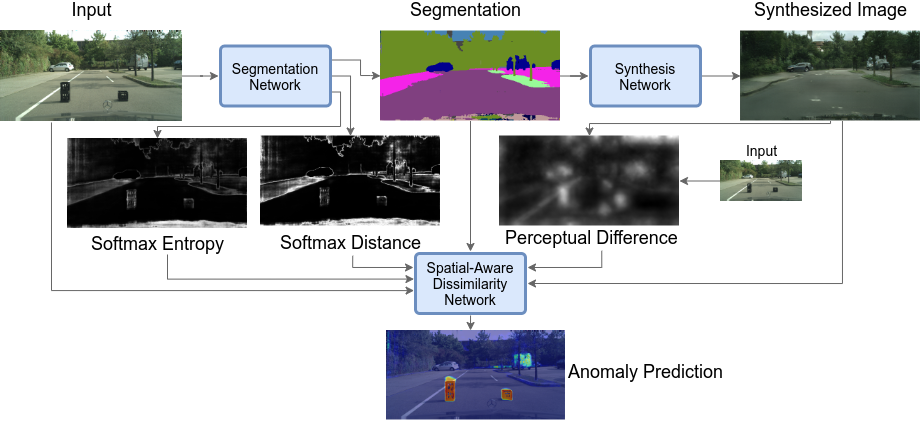
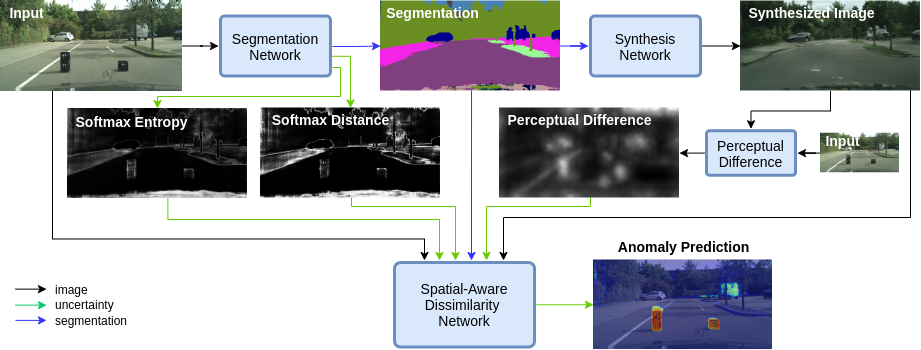
Updated README and Display Image

diff --git a/README.md b/README.md
@@ -1,5 +1,5 @@
 # Pixel-wise Anomaly Detection for Complex Driving Scenes
-This repository is the paper implementation for Pixel-wise Anomaly Detection for Complex Driving Scenes (`HYPER-LINK PAPER ONCE IN ARXIV`). 
+This repository is the paper implementation for Pixel-wise Anomaly Detection for Complex Driving Scenes ([Link](https://arxiv.org/abs/2103.05445)). 
 
 ![Alt text](display_images/methodology.png?raw=true "Methodology")
 
